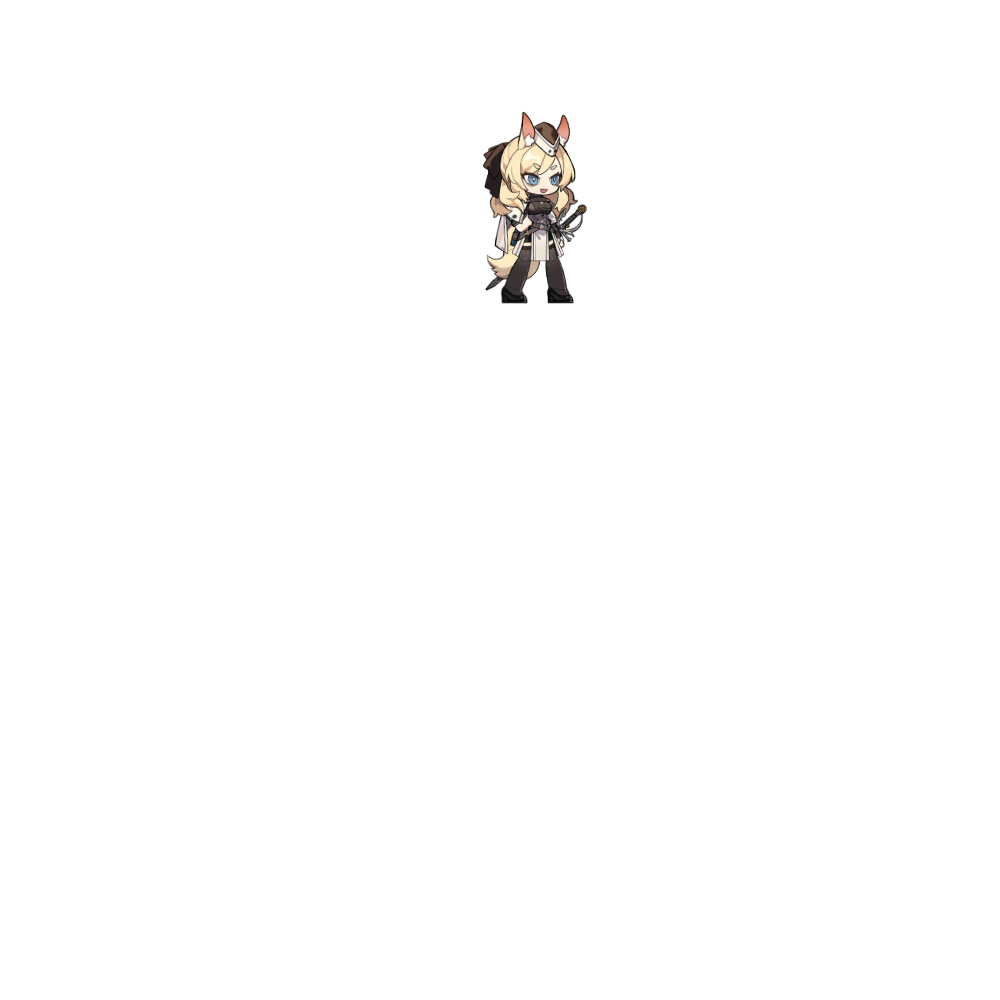
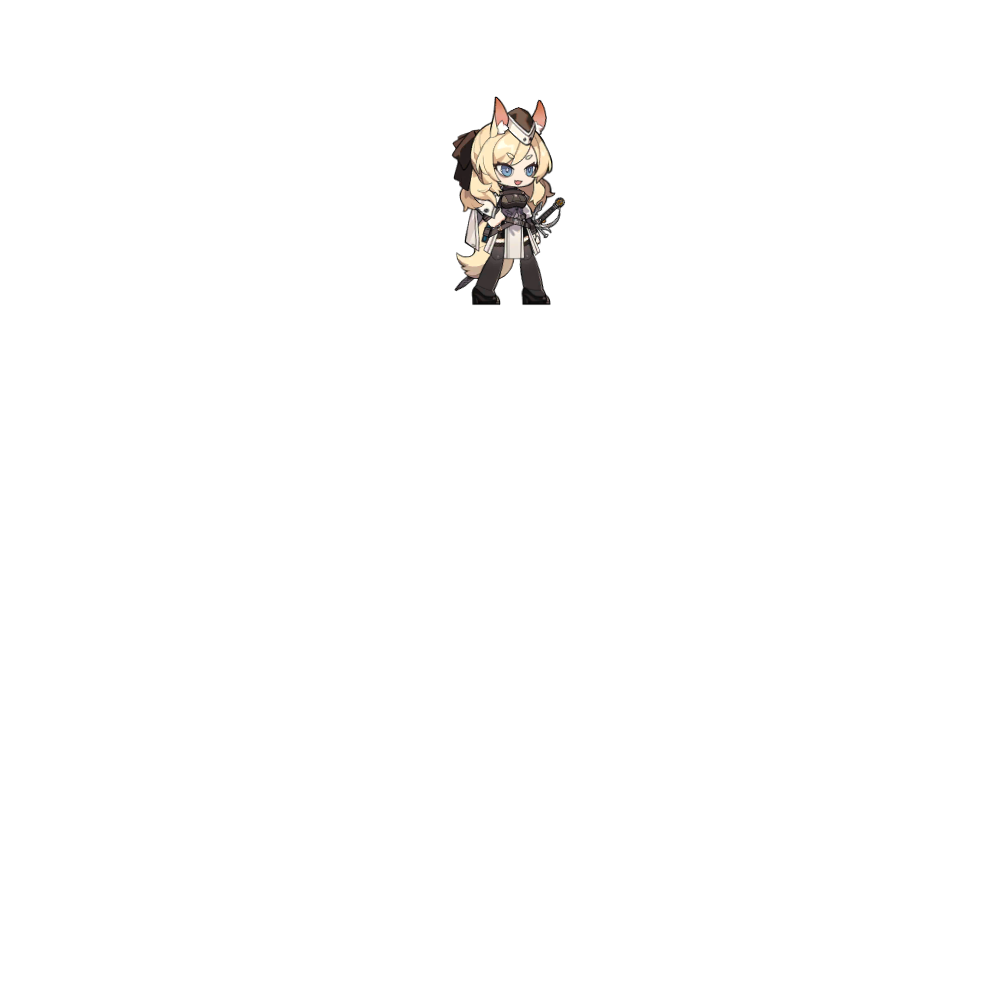
新增伙伴野鬃

Changed region(s): [[0.434, 0.093, 0.589, 0.31]]

diff --git a/src/main/java/nearlmod/cards/friendcards/LanceCharge.java b/src/main/java/nearlmod/cards/friendcards/LanceCharge.java
@@ -1,0 +1,64 @@
+package nearlmod.cards.friendcards;
+
+import com.megacrit.cardcrawl.actions.common.ApplyPowerAction;
+import com.megacrit.cardcrawl.actions.common.AttackDamageRandomEnemyAction;
+import com.megacrit.cardcrawl.actions.common.DamageAction;
+import com.megacrit.cardcrawl.cards.AbstractCard;
+import com.megacrit.cardcrawl.cards.DamageInfo;
+import com.megacrit.cardcrawl.characters.AbstractPlayer;
+import com.megacrit.cardcrawl.core.CardCrawlGame;
+import com.megacrit.cardcrawl.dungeons.AbstractDungeon;
+import com.megacrit.cardcrawl.localization.CardStrings;
+import com.megacrit.cardcrawl.monsters.AbstractMonster;
+import com.megacrit.cardcrawl.powers.GainStrengthPower;
+import com.megacrit.cardcrawl.powers.LoseStrengthPower;
+import com.megacrit.cardcrawl.powers.StrengthPower;
+import nearlmod.actions.StabbingLanceAction;
+import nearlmod.patches.AbstractCardEnum;
+
+import static nearlmod.patches.NearlTags.IS_KNIGHT_CARD;
+
+public class LanceCharge extends AbstractFriendCard {
+    public static final String ID = "nearlmod:LanceCharge";
+    public static final CardStrings cardStrings = CardCrawlGame.languagePack.getCardStrings(ID);
+    public static final String NAME = cardStrings.NAME;
+    public static final String DESCRIPTION = cardStrings.DESCRIPTION;
+    public static final String UPGRADE_DESCRIPTION = cardStrings.UPGRADE_DESCRIPTION;
+    public static final String IMG_PATH = "images/cards/flameheart.png";
+    private static final int COST = 2;
+    private static final int ATTACK_DMG = 10;
+    private static final int UPGRADE_PLUS_DMG = 5;
+    private static final int DECREASE_STRENGTH = 99;
+
+    public LanceCharge() {
+        super(ID, NAME, IMG_PATH, COST, DESCRIPTION,
+                CardType.ATTACK, AbstractCardEnum.NEARL_GOLD,
+                CardRarity.SPECIAL, CardTarget.ENEMY, "nearlmod:Wildmane");
+        magicNumber = baseMagicNumber = ATTACK_DMG;
+        tags.add(IS_KNIGHT_CARD);
+    }
+
+    @Override
+    public void use(AbstractPlayer p, AbstractMonster m) {
+        addToBot(new DamageAction(m, new DamageInfo(p, magicNumber)));
+        if (m.getIntentBaseDmg() >= 0) {
+            AbstractDungeon.actionManager.addToBottom(new ApplyPowerAction(m, p, new StrengthPower(m, -DECREASE_STRENGTH), -DECREASE_STRENGTH));
+            if (!m.hasPower("Artifact")) {
+                AbstractDungeon.actionManager.addToBottom(new ApplyPowerAction(m, p, new GainStrengthPower(m, DECREASE_STRENGTH), DECREASE_STRENGTH));
+            }
+        }
+    }
+
+    @Override
+    public AbstractCard makeCopy() {
+        return new LanceCharge();
+    }
+
+    @Override
+    public void upgrade() {
+        if (!upgraded) {
+            upgradeName();
+            upgradeMagicNumber(UPGRADE_PLUS_DMG);
+        }
+    }
+}

diff --git a/src/main/java/nearlmod/cards/friendcards/StabbingLance.java b/src/main/java/nearlmod/cards/friendcards/StabbingLance.java
@@ -1,0 +1,62 @@
+package nearlmod.cards.friendcards;
+
+import com.megacrit.cardcrawl.actions.common.AttackDamageRandomEnemyAction;
+import com.megacrit.cardcrawl.cards.AbstractCard;
+import com.megacrit.cardcrawl.characters.AbstractPlayer;
+import com.megacrit.cardcrawl.core.CardCrawlGame;
+import com.megacrit.cardcrawl.dungeons.AbstractDungeon;
+import com.megacrit.cardcrawl.localization.CardStrings;
+import com.megacrit.cardcrawl.monsters.AbstractMonster;
+import nearlmod.actions.StabbingLanceAction;
+import nearlmod.patches.AbstractCardEnum;
+
+import static nearlmod.patches.NearlTags.IS_KNIGHT_CARD;
+
+public class StabbingLance extends AbstractFriendCard {
+    public static final String ID = "nearlmod:StabbingLance";
+    public static final CardStrings cardStrings = CardCrawlGame.languagePack.getCardStrings(ID);
+    public static final String NAME = cardStrings.NAME;
+    public static final String DESCRIPTION = cardStrings.DESCRIPTION;
+    public static final String UPGRADE_DESCRIPTION = cardStrings.UPGRADE_DESCRIPTION;
+    public static final String IMG_PATH = "images/cards/flameheart.png";
+    private static final int COST = 1;
+    private static final int ATTACK_DMG = 2;
+    private static final int ATTACK_TIMES = 6;
+    private static final int UPGRADE_PLUS_TIMES = 2;
+
+    public StabbingLance() {
+        super(ID, NAME, IMG_PATH, COST, DESCRIPTION,
+                CardType.ATTACK, AbstractCardEnum.NEARL_GOLD,
+                CardRarity.SPECIAL, CardTarget.ALL_ENEMY, "nearlmod:Wildmane");
+        magicNumber = baseMagicNumber = ATTACK_DMG;
+        secondMagicNumber = baseSecondMagicNumber = ATTACK_TIMES;
+        tags.add(IS_KNIGHT_CARD);
+    }
+
+    @Override
+    public void use(AbstractPlayer p, AbstractMonster m) {
+        int resMonster = 0;
+        for (AbstractMonster ms : AbstractDungeon.getCurrRoom().monsters.monsters)
+            if (!ms.isDeadOrEscaped())
+                resMonster++;
+        damage = baseDamage = magicNumber;
+        for (int i = 1; i <= secondMagicNumber; i++)
+            addToBot(new AttackDamageRandomEnemyAction(this));
+        addToBot(new StabbingLanceAction(resMonster, upgraded? 2 : 1));
+    }
+
+    @Override
+    public AbstractCard makeCopy() {
+        return new StabbingLance();
+    }
+
+    @Override
+    public void upgrade() {
+        if (!upgraded) {
+            upgradeName();
+            upgradeSecondMagicNumber(UPGRADE_PLUS_TIMES);
+            rawDescription = UPGRADE_DESCRIPTION;
+            initializeDescription();
+        }
+    }
+}

diff --git a/src/main/java/nearlmod/orbs/Wildmane.java b/src/main/java/nearlmod/orbs/Wildmane.java
@@ -1,0 +1,65 @@
+package nearlmod.orbs;
+
+import com.megacrit.cardcrawl.core.CardCrawlGame;
+import com.megacrit.cardcrawl.dungeons.AbstractDungeon;
+import com.megacrit.cardcrawl.localization.OrbStrings;
+import com.megacrit.cardcrawl.orbs.AbstractOrb;
+import nearlmod.cards.friendcards.*;
+
+public class Wildmane extends AbstractFriend {
+
+    public static final String ORB_ID = "nearlmod:Wildmane";
+    private static final OrbStrings orbStrings = CardCrawlGame.languagePack.getOrbString(ORB_ID);
+    public static final String NAME = orbStrings.NAME;
+    public static final String[] DESCRIPTION = orbStrings.DESCRIPTION;
+    public static final String IMAGE = "images/orbs/wildmane.png";
+    public boolean upgraded;
+
+    public Wildmane(int amount) {
+        super(ORB_ID, NAME, 0, 0, DESCRIPTION[0], "", IMAGE);
+        passiveAmount = amount;
+        upgraded = false;
+        updateDescription();
+    }
+
+    public Wildmane() {
+        this(0);
+    }
+
+    @Override
+    public void applyStrength(int amount) {
+        super.applyStrength(amount);
+        updateDescription();
+    }
+
+    public void upgrade() {
+        upgraded = true;
+        applyStrength(2);
+    }
+
+    @Override
+    public void updateDescription() {
+        description = DESCRIPTION[upgraded? 2 : 0] + passiveAmount + DESCRIPTION[1];
+    }
+
+    @Override
+    public AbstractOrb makeCopy() {
+        return new Wildmane();
+    }
+
+    public static AbstractFriendCard getRandomCard(boolean upgraded) {
+        int random = AbstractDungeon.cardRng.random(0, 1);
+        AbstractFriendCard card;
+        if (random == 0)
+            card = new StabbingLance();
+        else
+            card = new LanceCharge();
+        if (upgraded) card.upgrade();
+        return card;
+    }
+
+    @Override
+    public void onStartOfTurn() {
+        AbstractDungeon.player.hand.addToHand(getRandomCard(upgraded));
+    }
+}

diff --git a/src/main/java/nearlmod/actions/StabbingLanceAction.java b/src/main/java/nearlmod/actions/StabbingLanceAction.java
@@ -1,0 +1,29 @@
+package nearlmod.actions;
+
+import com.megacrit.cardcrawl.actions.AbstractGameAction;
+import com.megacrit.cardcrawl.actions.common.DamageAction;
+import com.megacrit.cardcrawl.cards.DamageInfo;
+import com.megacrit.cardcrawl.characters.AbstractPlayer;
+import com.megacrit.cardcrawl.dungeons.AbstractDungeon;
+import com.megacrit.cardcrawl.monsters.AbstractMonster;
+import nearlmod.util.CostReserves;
+
+public class StabbingLanceAction extends AbstractGameAction {
+    public int costInc;
+    public StabbingLanceAction(int amount, int costInc) {
+        this.actionType = ActionType.SPECIAL;
+        this.amount = amount;
+        this.costInc = costInc;
+    }
+
+    @Override
+    public void update() {
+        int resMonster = 0;
+        for (AbstractMonster ms : AbstractDungeon.getMonsters().monsters)
+            if (!ms.isDeadOrEscaped())
+                resMonster++;
+        if (resMonster < amount)
+            addToBot(new GainCostAction(costInc * (amount - resMonster)));
+        this.isDone = true;
+    }
+}

diff --git a/src/main/java/nearlmod/cards/PersonalCharm.java b/src/main/java/nearlmod/cards/PersonalCharm.java
@@ -6,8 +6,7 @@ import com.megacrit.cardcrawl.core.CardCrawlGame;
 import com.megacrit.cardcrawl.localization.CardStrings;
 import com.megacrit.cardcrawl.monsters.AbstractMonster;
 import nearlmod.actions.SummonOrbAction;
-import nearlmod.orbs.AbstractFriend;
-import nearlmod.orbs.Flametail;
+import nearlmod.orbs.*;
 import nearlmod.patches.AbstractCardEnum;
 
 import java.util.ArrayList;
@@ -33,6 +32,7 @@ public class PersonalCharm extends AbstractNearlCard {
     public void use(AbstractPlayer p, AbstractMonster m) {
         ArrayList<AbstractFriend> list = new ArrayList<>();
         list.add(new Flametail());
+        list.add(new Wildmane());
         Collections.shuffle(list);
         addToBot(new SummonOrbAction(list.get(0)));
         if (upgraded && list.size() >= 2)

diff --git a/src/main/java/nearlmod/cards/friendcards/PinusSylvestris.java b/src/main/java/nearlmod/cards/friendcards/PinusSylvestris.java
@@ -38,6 +38,8 @@ public class PinusSylvestris extends AbstractFriendCard {
         ArrayList<AbstractCard> list = new ArrayList<>();
         list.add(new PinusSylvestris());
         list.add(new FlameHeart());
+        list.add(new StabbingLance());
+        list.add(new LanceCharge());
         int random = AbstractDungeon.cardRng.random(0, list.size() - 1);
         AbstractCard card = list.get(random);
         if (upgraded) card.upgrade();

diff --git a/src/main/java/nearlmod/NLMOD.java b/src/main/java/nearlmod/NLMOD.java
@@ -167,6 +167,8 @@ public class NLMOD implements EditCardsSubscriber, EditCharactersSubscriber, Edi
 
         BaseMod.addCard(new PinusSylvestris()); // “红松林”
         BaseMod.addCard(new FlameHeart()); // 焰心
+        BaseMod.addCard(new StabbingLance()); // 骑枪刺击
+        BaseMod.addCard(new LanceCharge()); // 夹枪冲锋
     }
 
     @Override
